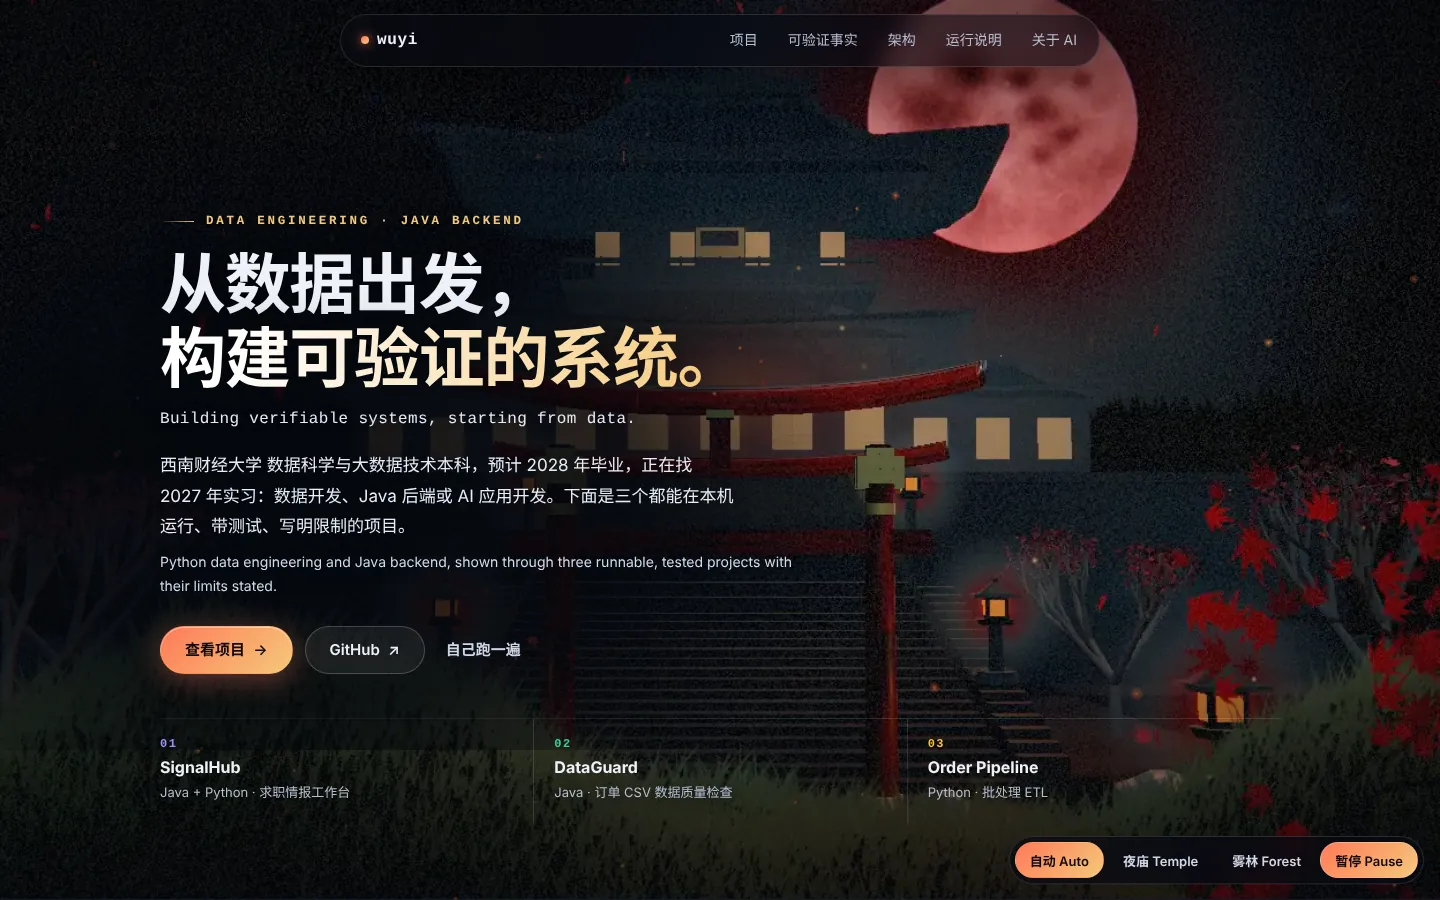
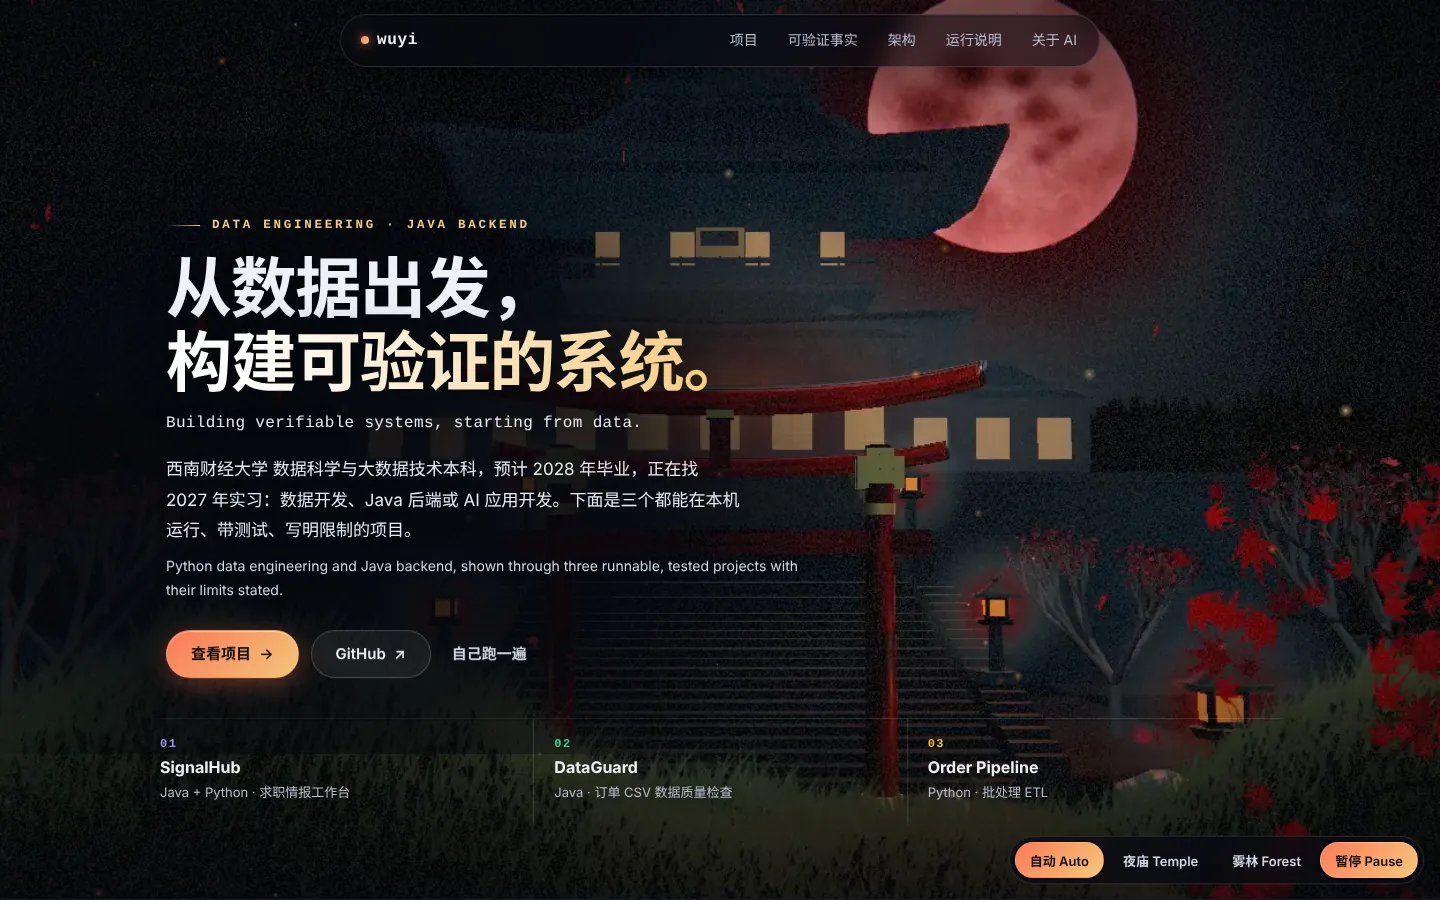
fix(site): final polish - copy button outside code, arch heading wrap, svh fallback
- Copy button moves out of the scrolling <pre> (it overlapped the first command line on phones)
- Chinese architecture headings no longer break inside a word (keep-all + strict line-break)
- More room between section eyebrow and heading; 100vh fallback before 100svh
- Evidence screenshots and hashes refreshed; Safari review notes and docs updated

Claude-Session: https://claude.ai/code/session_014d5jSiu2nYvL3BMZ8KRL8S

diff --git a/docs/assets/style.css b/docs/assets/style.css
@@ -90,7 +90,7 @@ body[data-scene="forest"] .veil { background: radial-gradient(120% 90% at 50% 40
 .btn.text::before { display: none; }
 
 /* ---------- hero ---------- */
-.hero { position: relative; min-height: 100svh; display: flex; flex-direction: column; justify-content: flex-end; padding: 120px 0 76px !important; }
+.hero { position: relative; min-height: 100vh; min-height: 100svh; display: flex; flex-direction: column; justify-content: flex-end; padding: 120px 0 76px !important; }
 .hero-inner { position: relative; max-width: 640px; padding-bottom: 36px; transform: translate3d(calc(var(--px) * -6px), calc(var(--py) * -4px), 0); transition: transform .35s var(--ease); }
 /* a soft local scrim instead of a boxed panel: keeps the 3D scene visible around the text */
 .hero-inner::before { content: ""; position: absolute; inset: -80px -130px -40px -170px; z-index: -1; pointer-events: none; background: radial-gradient(70% 78% at 36% 56%, rgba(4, 7, 13, .9) 0%, rgba(4, 7, 13, .74) 46%, rgba(4, 7, 13, 0) 82%); }
@@ -124,13 +124,14 @@ h1 .ph:last-child { background: linear-gradient(95deg, #fff 10%, var(--accent-2)
 
 /* ---------- sections ---------- */
 h1, h2, h3 { text-wrap: balance; }
+.arch-block h3 { word-break: keep-all; line-break: strict; }
 p, li, figcaption { text-wrap: pretty; }
 main { overflow-x: clip; }
 section { padding: 104px 0 24px; }
 .section-head { position: relative; max-width: 640px; margin-bottom: 44px; }
 .section-head::before { content: ""; position: absolute; inset: -14px -30px -10px -30px; z-index: -1; pointer-events: none; border-radius: 28px; background: rgba(4, 7, 13, .72); box-shadow: 0 0 40px 30px rgba(4, 7, 13, .72); }
 body[data-scene="forest"] .section-head::before { background: rgba(6, 12, 7, .86); box-shadow: 0 0 40px 30px rgba(6, 12, 7, .86); }
-.eyebrow { display: flex; align-items: center; gap: 12px; margin: 0 0 14px; font: 600 12.5px var(--mono); letter-spacing: .2em; text-transform: uppercase; color: var(--accent-2); }
+.eyebrow { display: flex; align-items: center; gap: 12px; margin: 0 0 18px; font: 600 12.5px var(--mono); letter-spacing: .2em; text-transform: uppercase; color: var(--accent-2); }
 .eyebrow::after { content: ""; flex: 0 0 56px; height: 1px; background: linear-gradient(90deg, var(--accent-2), transparent); }
 h2 { margin: 0 0 12px; font-size: clamp(26px, 4vw, 42px); line-height: 1.2; letter-spacing: -.015em; font-weight: 720; text-shadow: 0 2px 24px rgba(0, 0, 0, .5); }
 h2 [lang="en"] { display: block; margin-top: 4px; font: 500 .45em var(--mono); letter-spacing: .04em; color: #d6deed; text-shadow: 0 1px 14px rgba(0, 0, 0, .7); }
@@ -204,9 +205,10 @@ details[open] summary::before { transform: rotate(45deg); }
 details[open] summary { border-bottom: 1px solid var(--line); }
 .run { padding: 8px 20px 20px; }
 .run p { color: var(--muted); font-size: 14px; margin: 14px 0 8px; }
-pre { position: relative; margin: 12px 0; background: #060913; border: 1px solid var(--line); border-left: 2px solid var(--accent); border-radius: 12px; padding: 18px 18px 18px 20px; overflow-x: auto; font-size: 13px; line-height: 1.7; color: #dbe4f5; }
+pre { position: relative; margin: 0; background: #060913; border: 1px solid var(--line); border-left: 2px solid var(--accent); border-radius: 12px; padding: 46px 18px 18px 20px; overflow-x: auto; font-size: 13px; line-height: 1.7; color: #dbe4f5; }
 :not(pre) > code { font-size: .9em; color: #e9d9b8; background: rgba(255, 255, 255, .06); border-radius: 5px; padding: 1px 6px; }
-.copy { position: absolute; top: 10px; right: 10px; min-height: 32px; padding: 0 12px; font: 600 12px var(--sans); border-radius: 999px; border: 1px solid var(--line-2); background: rgba(255, 255, 255, .06); color: var(--text); cursor: pointer; transition: background .25s, border-color .25s, color .25s, transform .15s; }
+.codebox { position: relative; margin: 12px 0; }
+.copy { position: absolute; z-index: 1; top: 10px; right: 10px; min-height: 32px; padding: 0 12px; font: 600 12px var(--sans); border-radius: 999px; border: 1px solid var(--line-2); background: rgba(255, 255, 255, .06); color: var(--text); cursor: pointer; transition: background .25s, border-color .25s, color .25s, transform .15s; }
 .copy:hover { border-color: var(--accent-2); background: rgba(255, 255, 255, .1); }
 .copy:active { transform: scale(.95); }
 .copy.done { color: #0b140b; background: var(--accent-2); border-color: transparent; }

diff --git a/docs/assets/main.js b/docs/assets/main.js
@@ -72,5 +72,8 @@ document.querySelectorAll('pre').forEach((block) => {
     }
     setTimeout(() => { button.textContent = '复制 Copy'; button.classList.remove('done'); }, 1800);
   });
-  block.appendChild(button);
+  const wrap = document.createElement('div');       // the button lives outside the scrolling <pre>, so it never covers or scrolls with the code
+  wrap.className = 'codebox';
+  block.parentNode.insertBefore(wrap, block);
+  wrap.append(block, button);
 });

diff --git a/docs/evidence/README.md b/docs/evidence/README.md
@@ -11,10 +11,10 @@ Screenshots are stored as WebP (at most 1600 px wide); the SHA-256 is of the sto
[13 lines of base64/hex data omitted]
@@ -44,7 +44,7 @@ Screenshots are stored as WebP (at most 1600 px wide); the SHA-256 is of the sto
 | WebGL unavailable (only `webgl` contexts forced to null) | posters shown, no scene canvas visible, 0 page errors; the upstream Temple Night renderer logs 2 `console.error` lines when it fails |
 | `prefers-reduced-motion: reduce` | no 3D script requested and no frame loop until the visitor presses Play; Play then starts it |
 | Keyboard | focus ring visible on nav, buttons, chips (2 px solid outline); nav shows `aria-current="location"` for the section in view (architecture verified) |
-| Text contrast (rendered background pixels with text hidden, brightest 1 % as worst case) | V2 desktop with live 3D: minimum 4.8:1 over 41 samples (hero, forest/night section heads, cards). V2 mobile poster mode: minimum 5.09:1 over 38 samples (the first measurement found the kicker at 2.96:1 and the English sub-line at 4.18:1; the mobile scrim was strengthened and re-measured) |
+| Text contrast (rendered background pixels with text hidden, brightest 1 % as worst case) | V2 desktop with live 3D: minimum 4.75:1 over 41 samples (hero, forest/night section heads, cards). V2 mobile poster mode: minimum 5.09:1 over 38 samples (the first measurement found the kicker at 2.96:1 and the English sub-line at 4.18:1; the mobile scrim was strengthened and re-measured) |
 | Hero title wrapping | each title phrase stays on one line at 320, 360, 390, 600, 820, 1024, 1440 and 1920 px; no horizontal overflow at any of them |
 | V2 interactions (desktop, Chromium) | magnetic button offsets (`--tx` 8.3 px next to the button); glow follows the pointer (`--mx/--my`); parallax variables update; card tilt (`--rx/--ry` ±5°/4° max); click burst draws 401 spark pixels, then the canvas is fully cleared after 1.4 s (loop stops); scroll progress bar and nav current-section update; reveal-on-scroll adds `.in` |
 | V2 reduced motion | no magnetic offset, 0 spark pixels, 0 hidden `.reveal` elements, hero animation `none` |
@@ -56,8 +56,8 @@ Screenshots are stored as WebP (at most 1600 px wide); the SHA-256 is of the sto
 ## Not verified
 
 - **Real-GPU performance.** Software GL here renders about 1 frame per second and Temple Night's start-up blocked the main thread for seconds. Frame rate, main-thread stalls, GPU memory and battery on real hardware were **not measured**. Translucent panels use `backdrop-filter` over the moving scene, which can be costly on weak GPUs; the watchdog and the poster fallback exist because of this uncertainty.
-- **Safari / iOS.** A WebKit build could not be downloaded in this environment, so **Safari was not tested**. A code read found nothing Safari lacks without a fallback (`requestIdleCallback` has one, `-webkit-backdrop-filter` is set), but features such as `color-mix()`, `svh` and `aspect-ratio` need Safari 15.4-16.2 or newer, and Temple Night's WebGL2 path is untested there.
+- **Safari / iOS.** A WebKit build could not be downloaded in this environment, so **Safari was not tested**. A code read of the CSS and JS: `-webkit-` prefixes are present for `backdrop-filter`, `mask` (+ `-webkit-mask-composite`) and `background-clip: text`; `requestIdleCallback` and `100svh` have fallbacks; `@property` only animates the accent colour and is optional. Features without a fallback are `color-mix()` (Safari 16.2+; older versions lose the coloured hover borders and tags, the content stays usable), `overflow-x: clip` (16+) and Temple Night's WebGL2 path (Safari 15+); none of that was exercised on WebKit.
 - Firefox, real phones and tablets (only emulated viewports), screen readers.
 - **Subjective motion quality** of the V2 effects (particles, magnetic buttons, tilt, sparks): verified only that they run, update the expected variables and raise no errors; feel and smoothness on real hardware are for the reviewer to judge. Mouse-only effects are not exercised on touch.
 - Console warnings: headless Chromium logs `GPU stall due to ReadPixels` performance warnings from its software GL path; the page never calls `readPixels`.
-- Pages deployment itself (not enabled by this change).
+- Pages deployment itself (not enabled by this change; `docs/README.md` lists the steps).

diff --git a/docs/README.md b/docs/README.md
@@ -6,7 +6,7 @@ Static page for GitHub Pages (no build step, no dependencies, no network request
 - To publish after review: repository Settings, Pages, "Deploy from a branch", branch `main`, folder `/docs`.
   Nothing is published by merging alone; Pages has to be switched on. The address would be
   `https://wuyi060531-del.github.io/wuyi060531-del/`.
-- `assets/temple-night.js` is ThreeUI Community's Temple Night world bundled with Three.js (both MIT). `assets/stage.js` (scene manager), `assets/forest.js` (original forest shader) and `assets/fx.js` (particles) are this site's own code. Licence text: `THIRD_PARTY_NOTICES.md`.
+- `assets/temple-night.js` is ThreeUI Community's Temple Night world bundled with Three.js (both MIT). `assets/stage.js` (scene manager), `assets/forest.js` (original forest shader), `assets/fx.js` (particles) and `assets/ui.js` (pointer glow, magnetic buttons, section state) are this site's own code. Licence text: `THIRD_PARTY_NOTICES.md`.
 - `demos/ecommerce-order-pipeline/` is a snapshot of that project's static demo; see its `SOURCE.md`.
 - Checks that were run, and the ones that were not: `evidence/README.md`.
 - Built with AI assistance (Claude) at the owner's direction.
